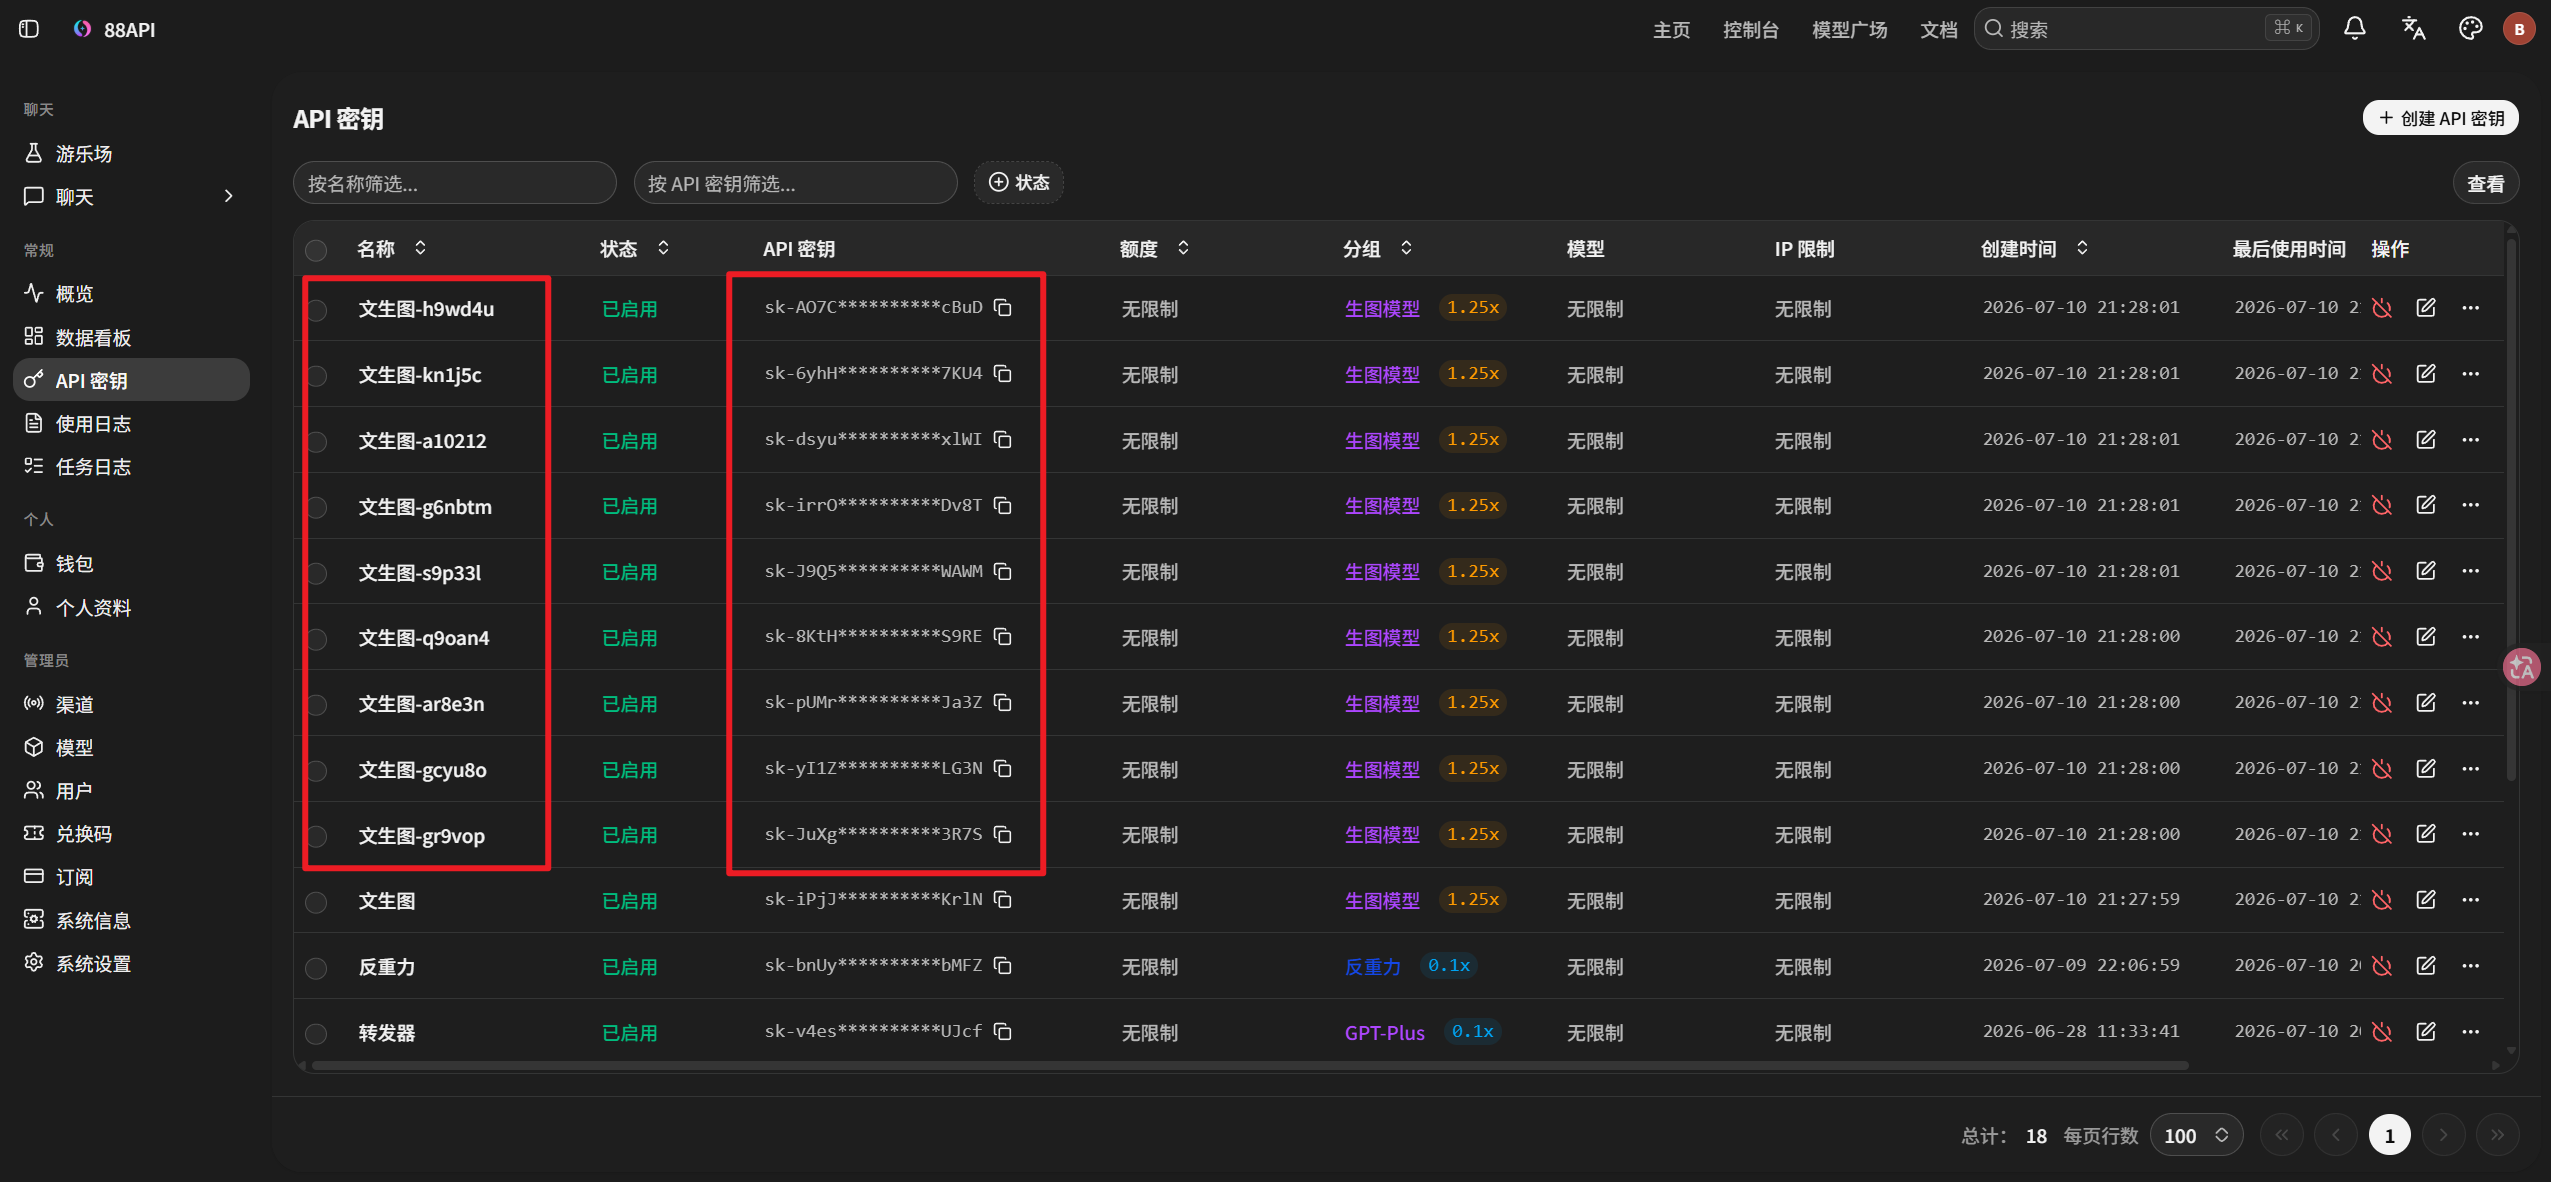
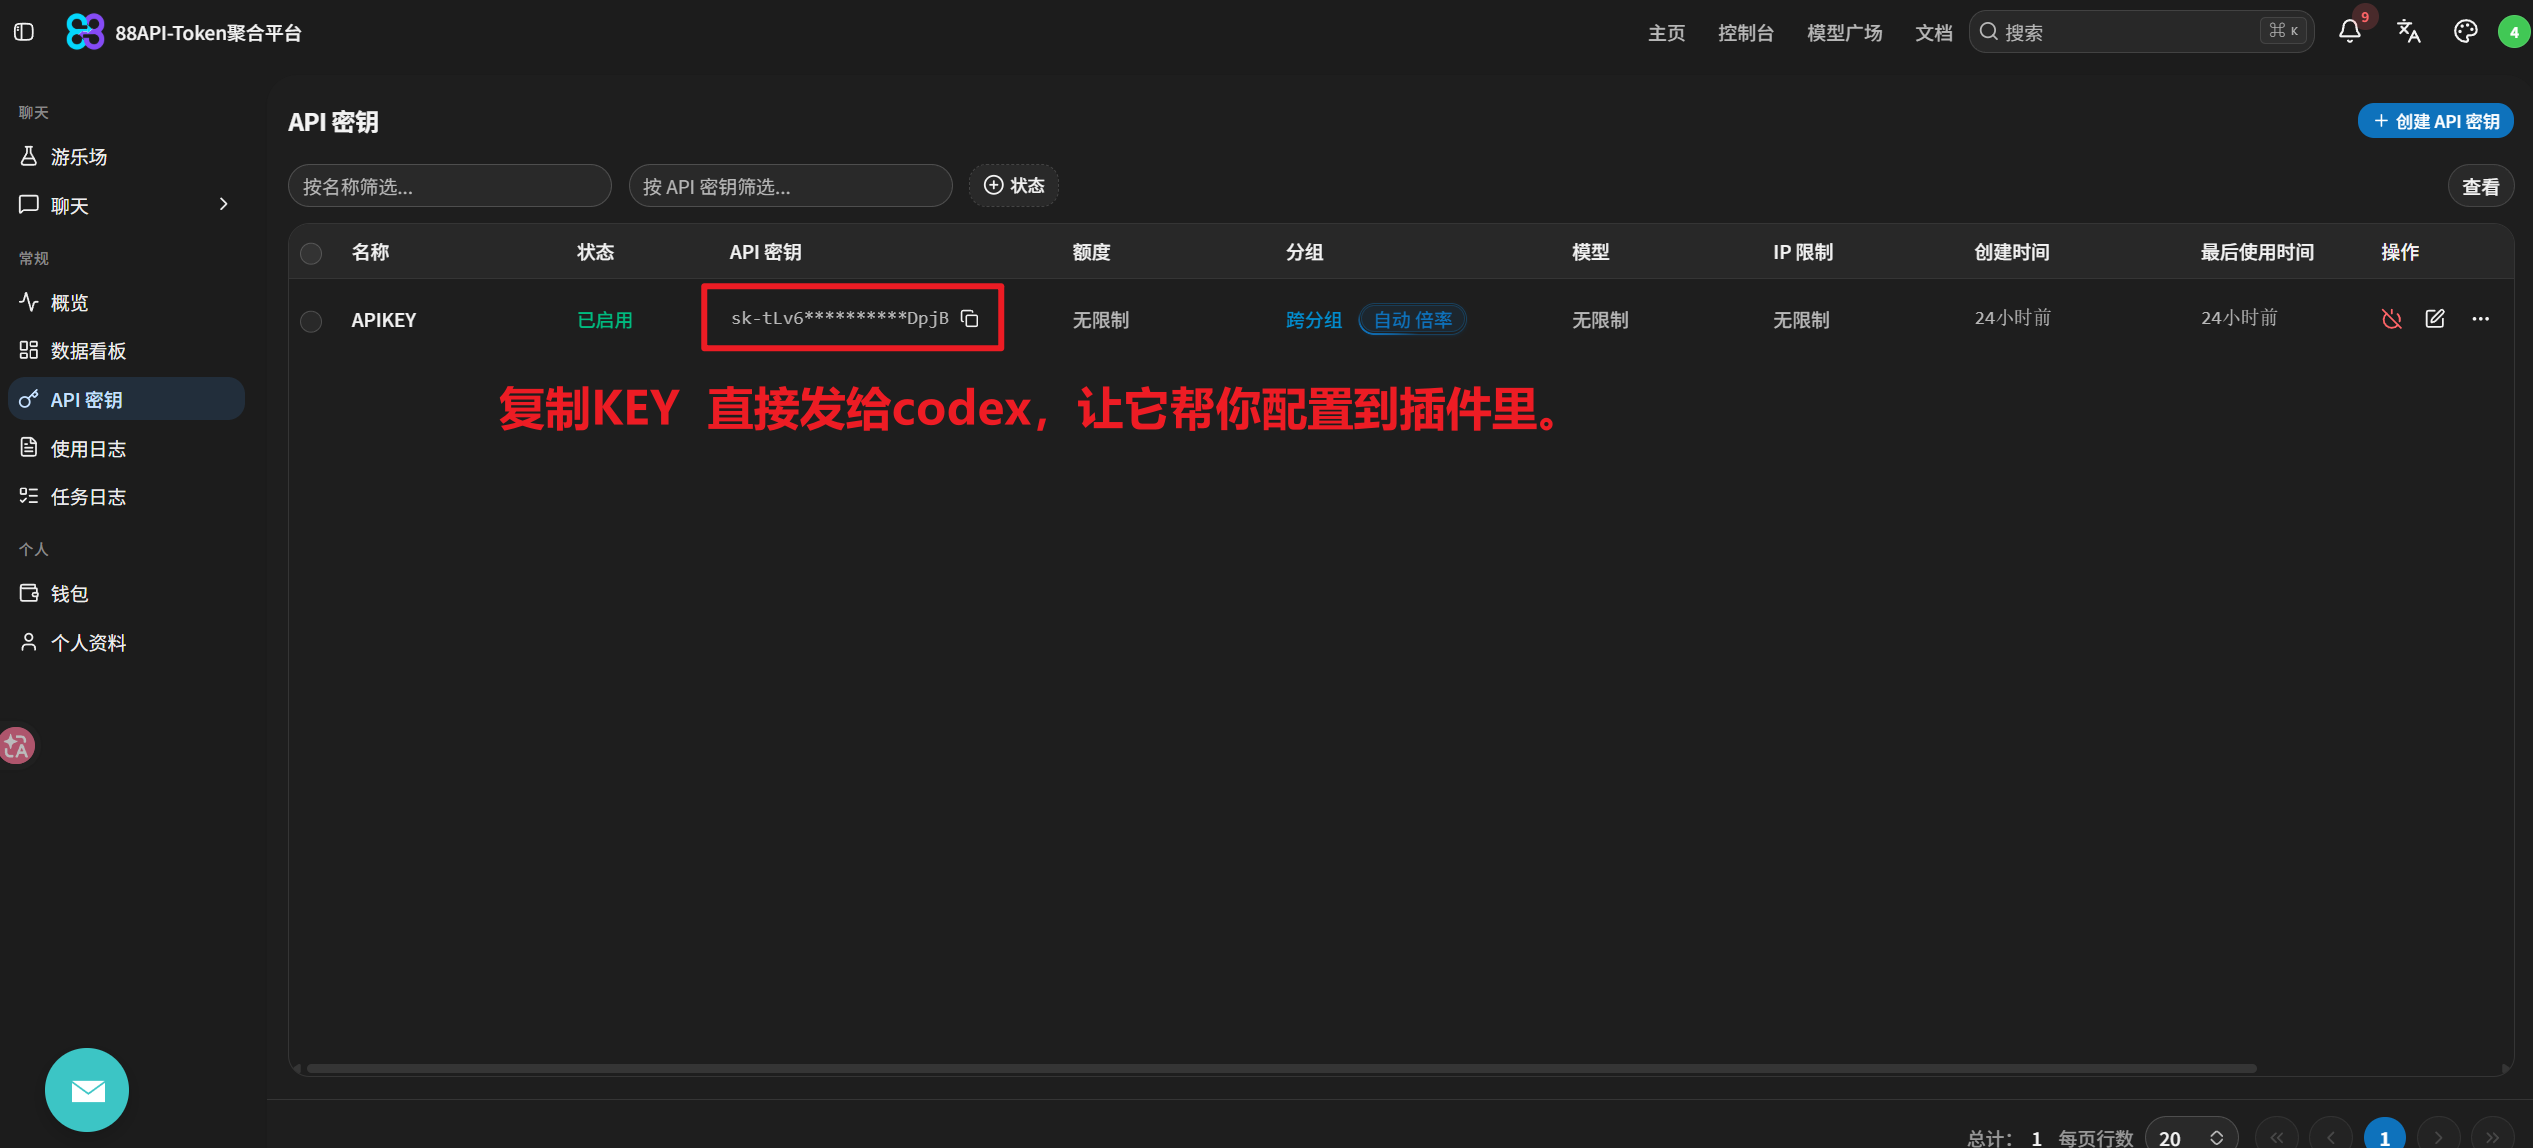
docs: prepare v1.2.0 release

diff --git a/README.md b/README.md
@@ -1,6 +1,6 @@
 # 88api-Nano-Banana
 
-来自 [88api.ai](https://88api.ai/) Token 聚合站的 Codex 专用 Gemini 生图插件，仅使用 **OpenAI Images** 协议。
+来自 [88api.ai](https://88api.ai/) Token 聚合站的 Codex 专用 Gemini 生图插件。它通过 **OpenAI Images** 协议生成和编辑图片，并将结果直接保存到本地。
 
 可调用：
 
@@ -9,14 +9,26 @@
 
 插件独立于 `88API-image-gen`，不共享 Key 或配置文件。
 
-## API 契约
+## 选择适合你的方式
+
+| 方式 | 适合场景 | 入口 |
+| --- | --- | --- |
+| Codex 插件（本项目） | 在 Codex 中用自然语言生成或编辑图片，适合参考图、重复任务、自动化和本地落盘 | 按下方步骤安装 |
+| 简单生图工具 | 无需安装，在浏览器中填写提示词、调整参数、上传参考图并复用历史任务 | [打开简单生图工具](https://img.88api.ai/) |
+| 专业画布工具 | 适合复杂创作流程、图像与视频项目、提示词库、资产管理和 Agent 辅助任务 | [打开专业画布工具](https://img-pro.88api.ai/) |
+
+只想快速出一张图时使用简单生图工具；需要可视化管理素材和多步骤创作时使用专业画布；希望让 Codex 理解需求并自动执行、保存文件时使用本插件。
+
+## API 协议
+
+从 `v1.2.0` 开始，插件仅使用 OpenAI Images 协议：
 
 | 场景 | 端点 | 请求格式 |
 | --- | --- | --- |
 | 文生图 | `https://88api.ai/v1/images/generations` | JSON |
 | 参考图编辑 | `https://88api.ai/v1/images/edits` | multipart，参考图字段为 `image[]` |
 
-两个端点都使用 `Authorization: Bearer <KEY>`。插件没有其他协议、协议选择器或故障自动路由。
+两个端点都使用 `Authorization: Bearer <KEY>`。旧版的 Anthropic Messages、Gemini 原生协议和 OpenAI Chat 兼容逻辑已移除；插件没有协议选择器，也不会在协议之间自动路由。
 
 ## 环境
 
@@ -32,11 +44,13 @@
 
 ### 2. 创建 API Key
 
-进入“API 密钥”，点击“创建 API 密钥”。Nano Banana 只需要一个 Key，数量填写 `1`。
+进入“API 密钥”，点击“创建 API 密钥”。名称可以自定义（例如“生图”），分组选择 `auto`（自动分组）；如需在当前分组渠道失败时继续尝试下一分组，可开启“跨分组重试”。
 
-![创建 API Key](docs/assets/88api-create-anthropic-gemini-key.png)
+![创建 API Key](docs/assets/88api-create-image-key.png)
 
 ### 3. 复制并配置 Key
+
+复制创建好的 Key，然后直接交给 Codex 配置到插件中，或者执行下方命令：
 
 ![复制 API Key](docs/assets/88api-copy-key.png)
 
@@ -45,7 +59,7 @@ node "<PLUGIN_ROOT>\scripts\generate.mjs" --set-key "<YOUR_88API_GEMINI_IMAGE_KE
 node "<PLUGIN_ROOT>\scripts\generate.mjs" --get-config
 ```
 
-配置保存在 `~/.codex/88api-nano-banana-config.json`。旧版本留下的协议字段会在下次保存配置时清除。不要把真实 Key 写入仓库、文档、日志或聊天内容。
+配置保存在 `~/.codex/88api-nano-banana-config.json`。旧版本留下的协议字段会在下次保存配置时清除。不要把真实 Key 写入仓库、文档、日志或公开聊天内容。
 
 ## 安装
 
